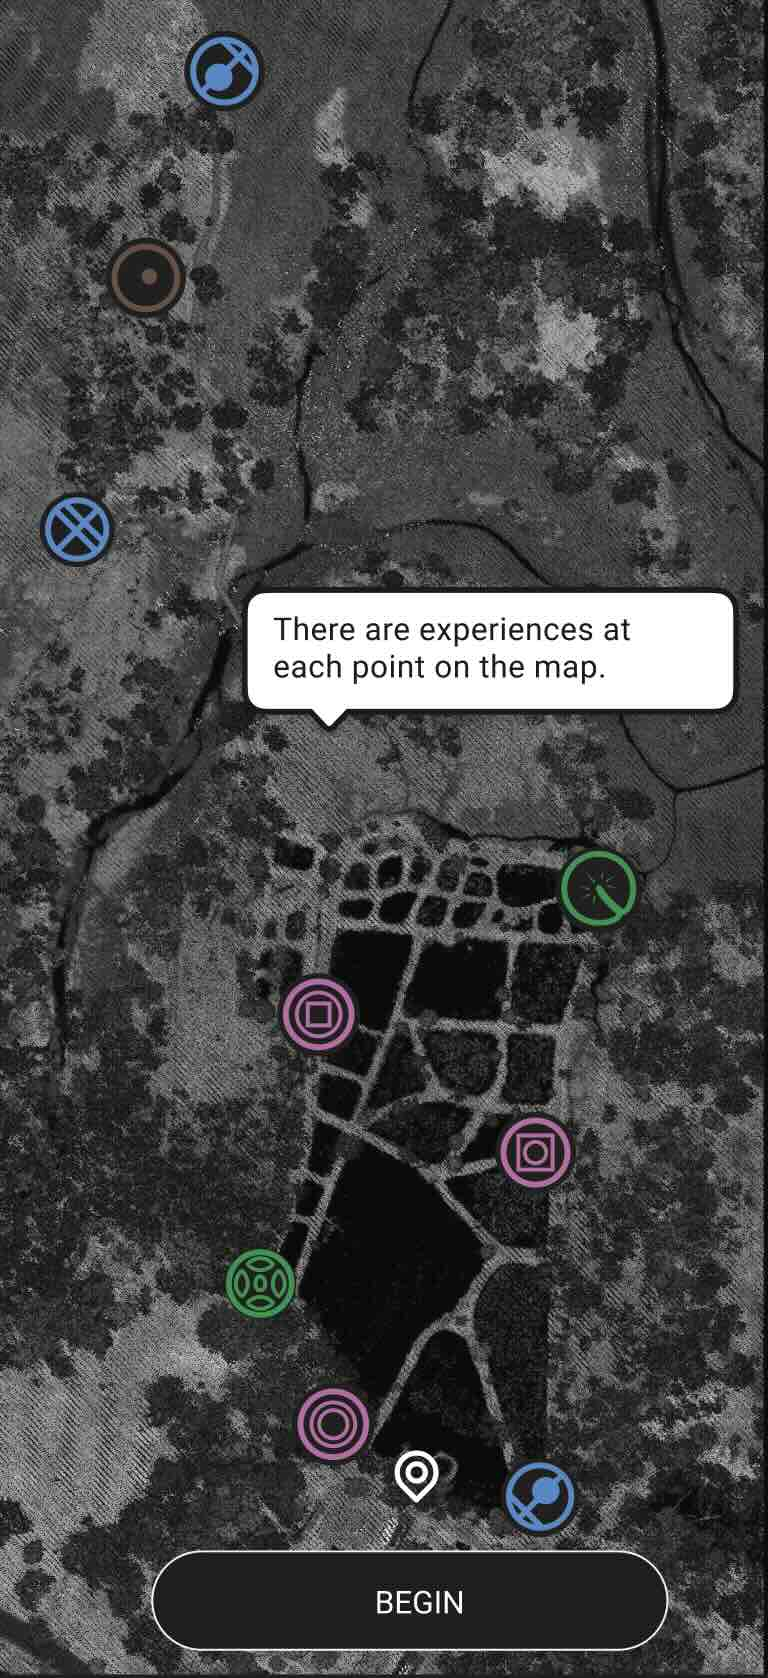
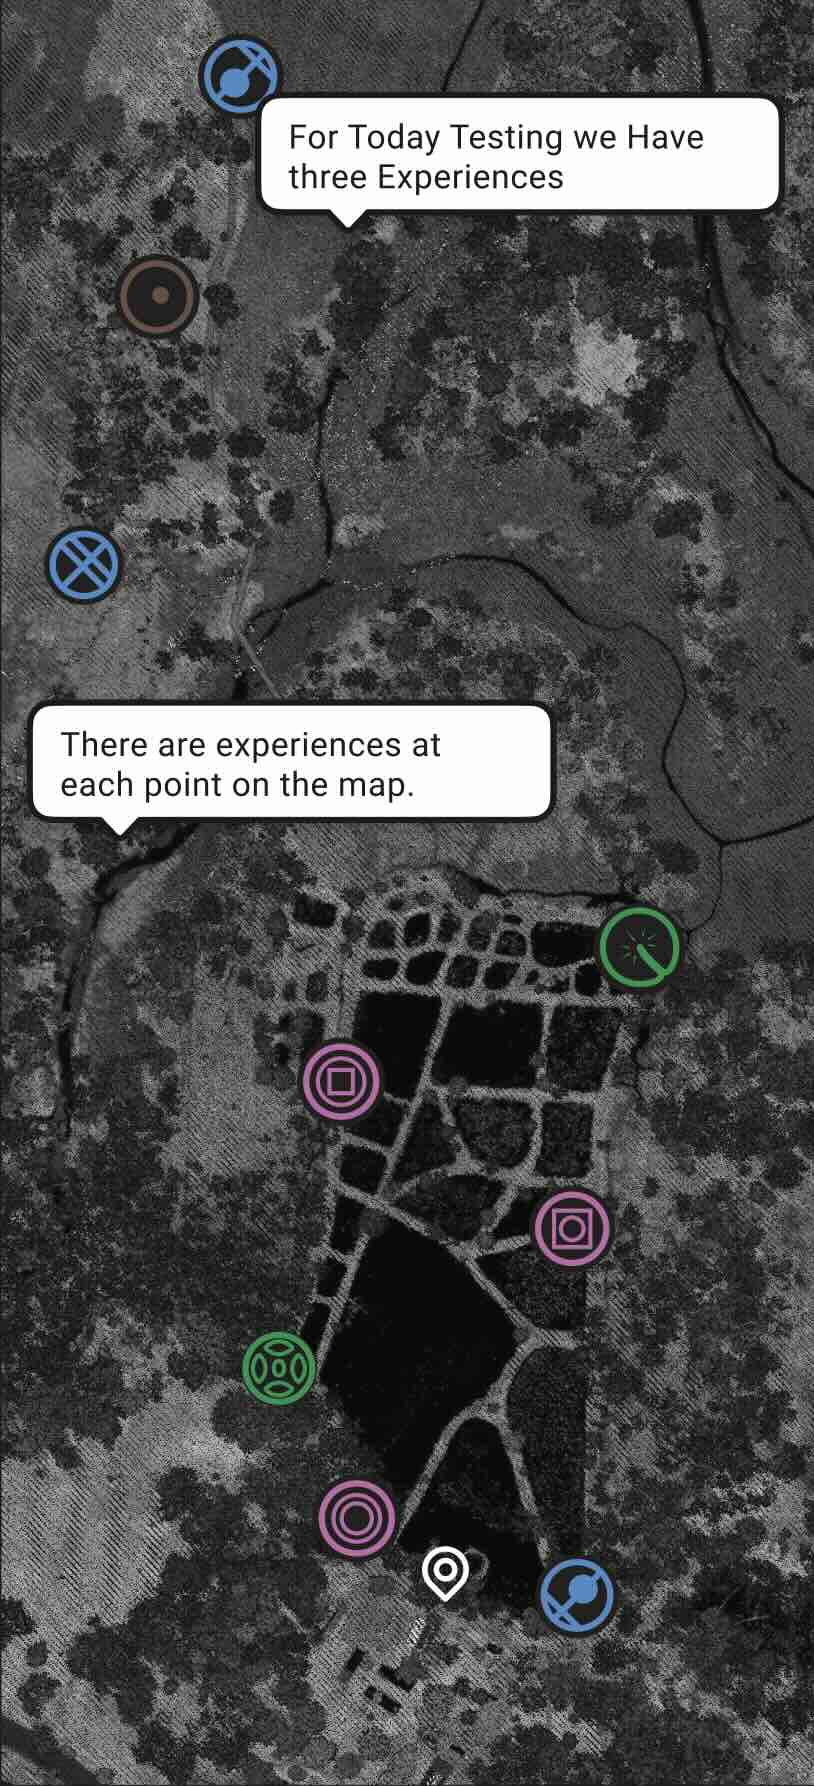
FixedMAp

diff --git a/src/components/routes/Map.tsx b/src/components/routes/Map.tsx
@@ -3,11 +3,12 @@ import VerticalSection from '../sections/vertical/VerticalSection';
 import PermissionsStatus from '../common/PermissionsStatus';
 import ContentConfigHelper from '../../utils/ContentConfigHelper';
 import ContentContainer, { ContentContainerProps } from '../common/ContentContainer';
+import Button from '../common/Button';
+import { getAssetPath } from '../../utils/assetPaths';
 
 const Map: React.FC = () => {
-
-    const mapBase1 = ContentConfigHelper.getTemplateById('mapBase1') as ContentContainerProps;
-    const mapBase2 = ContentConfigHelper.getTemplateById('mapBase2') as ContentContainerProps;
+  const mapBase1 = ContentConfigHelper.getTemplateById('mapBase1') as ContentContainerProps;
+  const mapBase2 = ContentConfigHelper.getTemplateById('mapBase2') as ContentContainerProps;
 
   return (
     <div className="map-route">
@@ -15,15 +16,92 @@ const Map: React.FC = () => {
         id="mapSection" 
         title="Map"
         color="var(--color-dark)"
+        backgroundImage={getAssetPath('img/mapBase2.jpg')}
+        backgroundSize="70vw"
+        backgroundPosition="center center"
+        height="100vh"  // This sets the height to 100% of the viewport height
+        fullHeight={true}
       >
-        <div className="map-content" style={{ padding: '0rem' }}>
-         
-          <ContentContainer {...mapBase1} />
-          <ContentContainer {...mapBase2} />
-
+        <div className="map-content" style={{ 
+          padding: '0rem',
+          height: '100vh',
+          width: '100%',
+          display: 'flex',
+          flexDirection: 'column',
+          position: 'relative'
+        }}>
+          {/* Experience navigation buttons container - positioned in the upper right */}
+          <div style={{
+            position: 'absolute',
+            top: '20vh',
+            right: '20vh',
+            display: 'flex',
+            flexDirection: 'column',
+            gap: '16px',
+            zIndex: 100
+          }}>
+            {/* Water Level Experience Button */}
+            <Button
+              title="WATER"
+              backgroundColor="var(--color-blue)"
+              textColor="white"
+              href={getAssetPath('#/water-level')}
+              hasShadow={true}
+              interactive={true}
+              hoverEffect="lift"
+              buttonClassName="experience-button"
+              style={{
+                width: '20%',
+                borderRadius: '4rem',
+                padding: '12px 16px',
+                textAlign: 'center',
+                fontWeight: 'bold'
+              }}
+            />
+            
+            {/* Lotus Experience Button */}
+            <Button
+              title="LOTUS"
+              backgroundColor="var(--color-pink)"
+              textColor="white"
+              href={getAssetPath('#/lotus')}
+              hasShadow={true}
+              interactive={true}
+              hoverEffect="lift"
+              buttonClassName="experience-button"
+              style={{
+                width: '20vw',
+                borderRadius: '4rem',
+                padding: '12px 16px',
+                textAlign: 'center',
+                fontWeight: 'bold'
+              }}
+            />
+            
+            {/* McDowney Era Experience Button */}
+            <Button
+              title="MAC"
+              backgroundColor="var(--color-green)"
+              textColor="white"
+              href={getAssetPath('#/mac')}
+              hasShadow={true}
+              interactive={true}
+              hoverEffect="lift"
+              buttonClassName="experience-button"
+              style={{
+                width: '100vw' ,
+                borderRadius: '4rem',
+                padding: '12px 16px',
+                textAlign: 'center',
+                fontWeight: 'bold'
+              }}
+            />
+          </div>
 
           {/* Minimal permission status indicators */}
-          <PermissionsStatus compact={true} />
+          <div style={{ position: 'absolute', bottom: '20px', left: '20px' }}>
+            <PermissionsStatus compact={true} />
+          </div>
         </div>
       </VerticalSection>
     </div>

diff --git a/src/components/sections/vertical/VerticalSection.tsx b/src/components/sections/vertical/VerticalSection.tsx
@@ -13,6 +13,10 @@ interface VerticalSectionProps {
   minHeight?: string | number;
   fullHeight?: boolean;
   isScrollLocked?: boolean;
+  backgroundImage?: string; // Changed to string type for URL or path
+  backgroundSize?: string; // Added for control over background sizing
+  backgroundPosition?: string; // Added for control over background positioning
+  backgroundRepeat?: string; // Added for control over background repeating
 }
 
 const VerticalSection: React.FC<VerticalSectionProps> = ({
@@ -25,6 +29,10 @@ const VerticalSection: React.FC<VerticalSectionProps> = ({
   minHeight = '100vh',
   fullHeight = true,
   isScrollLocked = false, // Default to false for normal scrolling
+  backgroundImage,
+  backgroundSize = 'cover',
+  backgroundPosition = 'center center',
+  backgroundRepeat = 'no-repeat',
 }) => {
   const sectionRef = useRef<HTMLElement>(null);
   
@@ -97,6 +105,11 @@ const VerticalSection: React.FC<VerticalSectionProps> = ({
     };
   }, [isScrollLocked]);
   
+  // Prepare background image style
+  const backgroundImageStyle = backgroundImage 
+    ? `url(${backgroundImage})` 
+    : '';
+  
   return (
     <section
       ref={sectionRef}
@@ -110,12 +123,15 @@ const VerticalSection: React.FC<VerticalSectionProps> = ({
         backgroundColor: color,
         height: 'auto',
         minHeight: !height ? minHeight : undefined,
-        maxWidth: '100vw'
+        maxWidth: '100vw',
+        backgroundImage: backgroundImageStyle,
+        backgroundSize: backgroundImage ? backgroundSize : undefined,
+        backgroundPosition: backgroundImage ? backgroundPosition : undefined,
+        backgroundRepeat: backgroundImage ? backgroundRepeat : undefined
       }}
       data-section-id={id}
     >
        {children}
-
     </section>
   );
 };

diff --git a/src/components/common/Button.tsx b/src/components/common/Button.tsx
@@ -10,6 +10,9 @@ export interface ButtonProps extends Omit<ContentContainerProps, 'children'> {
   buttonClassName?: string;
   unlockScrolling?: boolean;
   onUnlock?: () => void; // Callback to notify parent component to unlock scrolling
+  width?: string | number; // Added width property
+  textSize?: string | number; // Added textSize property
+  style?: React.CSSProperties; // Added style property for additional custom styling
 }
 
 const Button: React.FC<ButtonProps> = ({
@@ -20,6 +23,9 @@ const Button: React.FC<ButtonProps> = ({
   buttonClassName = '',
   unlockScrolling = false,
   onUnlock,
+  width,
+  textSize,
+  style,
   
   // ContentContainer props passed through
   title,
@@ -61,6 +67,13 @@ const Button: React.FC<ButtonProps> = ({
     // Custom action handling could be added here
   };
   
+  // Build custom style object
+  const customStyle: React.CSSProperties = {
+    ...(width !== undefined && { width }),
+    ...(textSize !== undefined && { fontSize: textSize }),
+    ...style // Merge any additional styles
+  };
+  
   return (
     <ContentContainer
       title={title}
@@ -75,6 +88,7 @@ const Button: React.FC<ButtonProps> = ({
       hoverEffect={hoverEffect}
       className={classNames('cursor-pointer', className, buttonClassName)}
       onClick={handleClick}
+      style={customStyle} // Apply our custom styles
       {...otherProps}
     />
   );

diff --git a/src/components/experiences/LotusExperience.tsx b/src/components/experiences/LotusExperience.tsx
@@ -128,10 +128,21 @@ const LotusExperience: React.FC<LotusExperienceProps> = ({ onClose, onNext }) =>
     continueButton.style.zIndex = '1002';
     continueButton.innerHTML = 'Continue';
     continueButton.onclick = () => {
+
+        window.location.href = window.location.origin + '/wayside-app/#/map';
+
+
       if (onNext) {
         onNext();
       }
     };
+    
+    continueButton.addEventListener('touchstart', () => {
+        if (onNext) {
+          window.location.href = window.location.origin + '/wayside-app/#/map';
+          onNext();
+        }
+      }, { passive: false });
     container.appendChild(continueButton);
 
     // Initialize Three.js components with transparency

diff --git a/src/components/experiences/MacExperience.tsx b/src/components/experiences/MacExperience.tsx
@@ -92,9 +92,18 @@ const MacExperience: React.FC<McDowneyEraExperienceProps> = ({ onClose, onNext }
     continueButton.innerHTML = 'Continue';
     continueButton.onclick = () => {
       if (onNext) {
+
+            window.location.href = window.location.origin + '/wayside-app/#/map';
+
         onNext();
       }
     };
+    continueButton.addEventListener('touchstart', () => {
+        if (onNext) {
+          window.location.href = window.location.origin + '/wayside-app/#/map';
+          onNext();
+        }
+      }, { passive: false });
     container.appendChild(continueButton);
 
     // Initialize Three.js components with transparency

diff --git a/src/components/experiences/WaterRiseExperience.tsx b/src/components/experiences/WaterRiseExperience.tsx
@@ -271,10 +271,19 @@ const WaterRiseExperience: React.FC<WaterRiseExperienceProps> = ({ onClose, onNe
 
     // Setup continue button click handler
     continueButton.addEventListener('click', function() {
+        window.location.href = window.location.origin + '/wayside-app/#/map';
+
+
       if (onNext) {
         onNext();
       }
     });
+    continueButton.addEventListener('touchstart', () => {
+        if (onNext) {
+          window.location.href = window.location.origin + '/wayside-app/#/map';
+          onNext();
+        }
+      }, { passive: false });
 
     // Handle window resize
     const handleResize = () => {

diff --git a/src/components/experiences/CubeExperience.tsx b/src/components/experiences/CubeExperience.tsx
@@ -127,8 +127,16 @@ const CubeExperience: React.FC<CubeExperienceProps> = ({ onClose, onNext }) => {
           // Change color to green
           (cube.material as THREE.MeshBasicMaterial).color.set(0x00ff00);
 
+         
+
           setTimeout(() => {
+
+            window.location.href = window.location.origin + '/wayside-app/#/map';
+
             if (onNext) {
+
+              // {getAssetPath('#/map')}
+
               onNext(); // This will trigger the navigation
             }
           }, 300);
